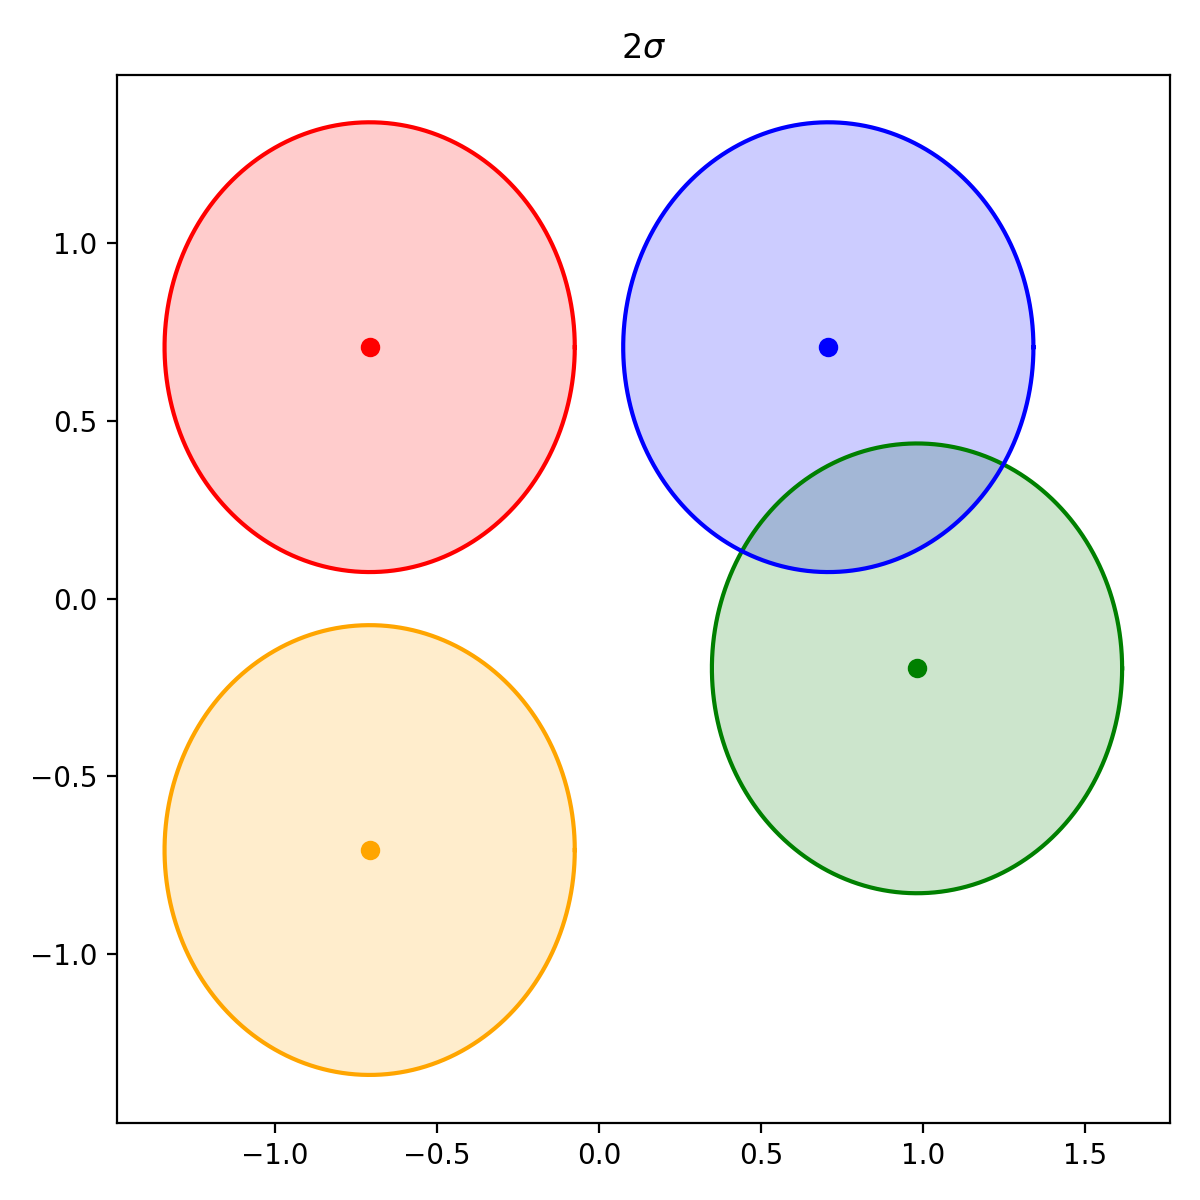
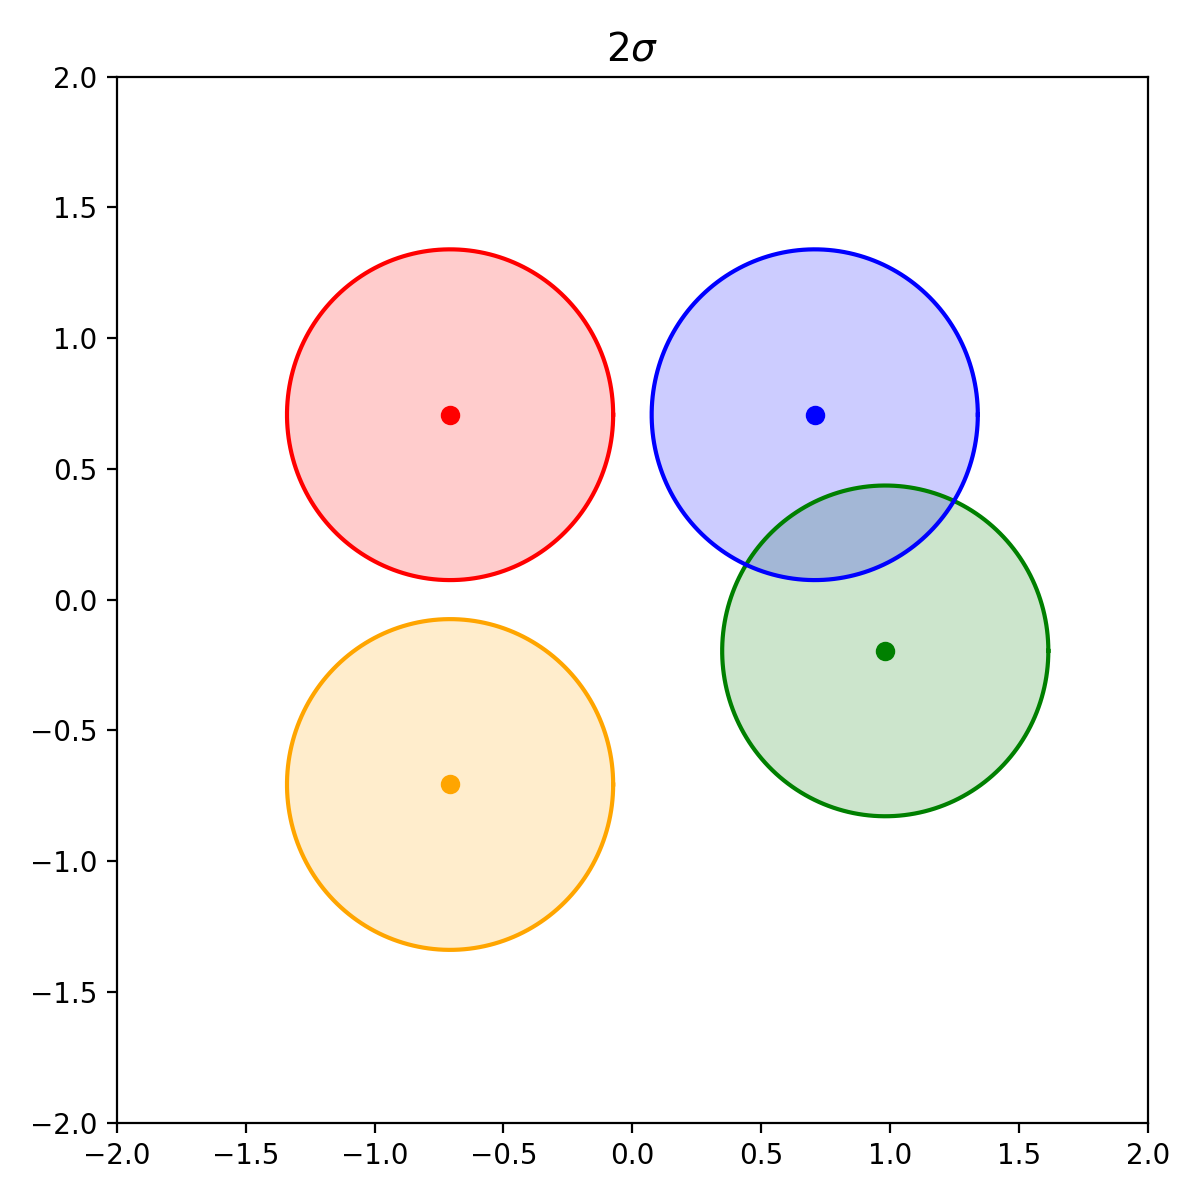
[Add] experiemtns

diff --git a/experiments/expr6/exec.py b/experiments/expr6/exec.py
@@ -1,0 +1,152 @@
+import torch
+from torch import nn
+import torch.nn.functional as F
+from torch.distributions import Normal
+from einops import rearrange
+import numpy as np
+import matplotlib.pyplot as plt
+import os, shutil
+
+class GaussianModel(nn.Module):
+    def __init__(self,
+                 dim=2,
+                 init_mu=[1., 1.],
+                 n_samples=50):
+        super().__init__()
+        base = torch.tensor(init_mu, dtype=torch.float32).view(1, -1)  # (1,2)
+        self.mu = nn.Parameter(base.repeat(n_samples, 1) + 1.*torch.randn((n_samples, dim)))
+        self.logvar = nn.Parameter(torch.tensor([0.1, 0.1], dtype=torch.float32).repeat(n_samples).reshape(n_samples, -1))
+
+        self.l2_norm = torch.norm
+
+    def forward(self):
+        # return L2-normalized mu and sigma
+        return F.normalize(self.mu, p=2, dim=-1),  torch.exp(0.5 * self.logvar)
+
+class LossFunc(nn.Module):
+    def __init__(self, n_mc=64, loss_type='cont', M=2.0, a=1.0, b=0.0):
+        super().__init__()
+        self.n_mc = n_mc          # Monte Carlo samples per distribution
+        self.loss_type = loss_type
+        self.M = M
+        self.a = a
+        self.b = b
+
+    def _split_abc(self, mu, sigma):
+        assert mu.dim() == 2 and sigma.dim() == 2, "mu/sigma must be (3N, D)"
+        assert mu.shape == sigma.shape, "mu and sigma must have same shape"
+        B, D = mu.shape
+        assert B % 3 == 0, "batch size must be multiple of 3"
+        N = B // 3
+        muA, muB, muC = mu[:N], mu[N:2*N], mu[2*N:3*N]
+        sA, sB, sC = sigma[:N], sigma[N:2*N], sigma[2*N:3*N]
+        return (muA, sA), (muB, sB), (muC, sC)
+
+    def _rsample_batch(self, mu, sigma):
+        # mu, sigma: (N, D) -> samples: (K, N, D)
+        dist = Normal(loc=mu, scale=sigma)
+        return dist.rsample((self.n_mc,))
+
+    @staticmethod
+    def _pairwise_dist(x, y):
+        # x: (K, N, D), y: (K, M, D) -> dist: (K, N, M)
+        # torch.cdist supports leading batch dims
+        return torch.cdist(x, y)  # L2 norm
+
+    def forward(self, mu_batch, sigma_batch):
+        (muA, sA), (muB, sB), (muC, sC) = self._split_abc(mu_batch, sigma_batch)
+
+        XA = self._rsample_batch(muA, sA)  # (K, N, D)
+        XB = self._rsample_batch(muB, sB)  # (K, N, D)
+        XC = self._rsample_batch(muC, sC)  # (K, N, D)
+
+        dAC = self._pairwise_dist(XA, XC)  # (K, N, N)  positive
+        dBA = self._pairwise_dist(XB, XA)  # (K, N, N)  negative
+        dBC = self._pairwise_dist(XB, XC)  # (K, N, N)  negative
+
+        if self.loss_type == 'cont':
+            pos = (dAC ** 2).mean()
+            neg = (F.relu(self.M - dBA) ** 2).mean() + (F.relu(self.M - dBC) ** 2).mean()
+            return pos + neg
+
+        elif self.loss_type == 'soft_cont':
+            p_pos = torch.sigmoid(-self.a * dAC + self.b)
+            p_ba  = torch.sigmoid(-self.a * dBA + self.b)
+            p_bc  = torch.sigmoid(-self.a * dBC + self.b)
+
+            pos = (-torch.log(p_pos + 1e-12)).mean()
+            neg = (-torch.log(1.0 - p_ba + 1e-12)).mean() + (-torch.log(1.0 - p_bc + 1e-12)).mean()
+            return pos + neg
+
+        else:
+            raise ValueError(f"Unknown loss_type: {self.loss_type}")
+
+def plot_diag_gaussian(mu, sigma, n_std=0.1, color='red', alpha=0.2):
+    mu ,var = mu.detach().numpy(), sigma.detach().numpy() ** 2
+    theta = np.linspace(0, 2*np.pi, 200)
+    x = mu[0] + n_std * np.sqrt(var[0]) * np.cos(theta)
+    y = mu[1] + n_std * np.sqrt(var[1]) * np.sin(theta)
+
+    plt.fill(x, y, color=color, alpha=alpha)
+    plt.plot(x, y, c=color)
+    plt.scatter(mu[0], mu[1], c=color)
+
+def main():
+    loss_type = 'soft_cont'
+
+    shutil.rmtree(f"experiments/expr6/assets/{loss_type}", ignore_errors=True)
+    os.makedirs(f"experiments/expr6/assets/{loss_type}")
+
+    device = 'cpu'
+    if torch.cuda.is_available():
+        device = 'cuda:0'
+
+    n_samples = 30
+    model_1 = GaussianModel(init_mu=[1., 0.], n_samples=n_samples) # Red
+    model_2 = GaussianModel(init_mu=[-1, 0.], n_samples=n_samples) # Blue
+    model_3 = GaussianModel(init_mu=[0., 1.], n_samples=n_samples) # Green (Ambiguous, become Red or Blue alternatively.)
+    num_iter = 1000
+
+    loss_fn = LossFunc(loss_type=loss_type)
+
+    optimizer = torch.optim.SGD(list(model_1.parameters())
+                                +list(model_2.parameters())
+                                +list(model_3.parameters())
+                                +list(loss_fn.parameters()),
+                                lr=2.)
+
+    for iter in range(1, num_iter+1):
+        plt.figure(figsize=(6, 6))
+        plt.xlim(-1.5, 1.5)
+        plt.ylim(-1.5, 1.5)
+        optimizer.zero_grad()
+
+        mu_1, sigma_1 = model_1()
+        mu_2, sigma_2 = model_2()
+        mu_3, sigma_3 = model_3()
+
+        for i in range(0, n_samples):
+            plot_diag_gaussian(mu_1[i], sigma_1[i], color='red')
+            plot_diag_gaussian(mu_2[i], sigma_2[i], color='blue')
+            plot_diag_gaussian(mu_3[i], sigma_3[i], color='green')
+
+        if iter % 2 == 1:
+            mu_batch = torch.cat([mu_1, mu_2, mu_3], dim=0)
+            sigma_batch = torch.cat([sigma_1, sigma_2, sigma_3], dim=0)
+        else:
+            mu_batch = torch.cat([mu_2, mu_1, mu_3], dim=0)
+            sigma_batch = torch.cat([sigma_2, sigma_1, sigma_3], dim=0)  
+
+        loss = loss_fn(mu_batch, sigma_batch)
+
+        loss.backward()
+        optimizer.step()      
+
+        plt.tight_layout()
+        plt.savefig(f'experiments/expr6/assets/{loss_type}/frame_{iter:05d}.png', dpi=200)
+        plt.close()
+
+        print(f'\rIteration [{iter:03d}/{num_iter:03d}]', end="")
+
+if __name__ == '__main__':
+    main()

diff --git a/experiments/expr6/merge_video.py b/experiments/expr6/merge_video.py
@@ -1,0 +1,42 @@
+import glob
+import imageio.v2 as imageio
+from PIL import Image
+import numpy as np
+import cv2
+import argparse
+
+
+cont_frame_dir = f"experiments/expr6/assets/cont"
+cont_paths = sorted(glob.glob(f"{cont_frame_dir}/frame_*.png"))
+
+soft_frame_dir = f"experiments/expr6/assets/soft_cont"
+soft_paths = sorted(glob.glob(f"{soft_frame_dir}/frame_*.png"))
+
+last_img = None
+fps = 100
+hold_sec = 3
+hold_frames = fps * hold_sec
+
+img0 = cv2.imread(cont_paths[0])
+h, w, _ = img0.shape
+
+out = cv2.VideoWriter(
+    f"experiments/expr6/videos/merge.mp4",
+    cv2.VideoWriter_fourcc(*"mp4v"),
+    fps=fps,
+    frameSize=(w * 2, h)
+)
+
+for idx, (p1, p2) in enumerate(zip(cont_paths, soft_paths), start=1):
+    # exec.py에서 bbox_inches='tight'로 인해 W, H가 달라지는 case가 존재
+    img1 = cv2.resize(cv2.imread(p1), (w, h), interpolation=cv2.INTER_AREA)
+    img2 = cv2.resize(cv2.imread(p2), (w, h), interpolation=cv2.INTER_AREA)
+
+    merged = cv2.hconcat([img1, img2])
+    out.write(merged)
+    last_img = merged
+
+for _ in range(hold_frames):
+    out.write(last_img)
+
+out.release()

diff --git a/experiments/expr6/video.py b/experiments/expr6/video.py
@@ -1,0 +1,31 @@
+import glob
+import cv2
+
+video_name = "soft_cont"
+frame_dir = f"experiments/expr6/assets"
+paths = sorted(glob.glob(f"{frame_dir}/{video_name}/frame_*.png"))
+
+last_img = None
+fps = 100
+hold_sec = 3
+hold_frames = fps * hold_sec
+
+img0 = cv2.imread(paths[0])
+h, w, _ = img0.shape
+
+out = cv2.VideoWriter(
+    f"{frame_dir}/../videos/{video_name}.mp4",
+    cv2.VideoWriter_fourcc(*"mp4v"),
+    fps=fps,
+    frameSize=(w, h)
+)
+
+for p in paths:
+    img = cv2.imread(p)
+    out.write(img)
+    last_img = img
+
+for _ in range(hold_frames):
+    out.write(last_img)
+
+out.release()

diff --git a/experiments/expr4/exec.py b/experiments/expr4/exec.py
@@ -17,10 +17,12 @@ def l2_norm(x, axis=None, eps=1e-12):
 
 def main():
     plt.figure(figsize=(6, 6))
-    sigma = 3
+    plt.xlim(-2, 2)
+    plt.ylim(-2, 2)
+    sigma = 1
     filename = f"sigma_{sigma}"
     std = 0.1
-    plt.title(rf'{sigma}$\sigma$')
+    plt.title(rf'{sigma}$\sigma$', fontsize=14)
 
     plot_diag_gaussian(l2_norm([-1, 1]), [std, std], sigma, color='red')
     plot_diag_gaussian(l2_norm([-1, -1]), [std, std], sigma, color='orange')
